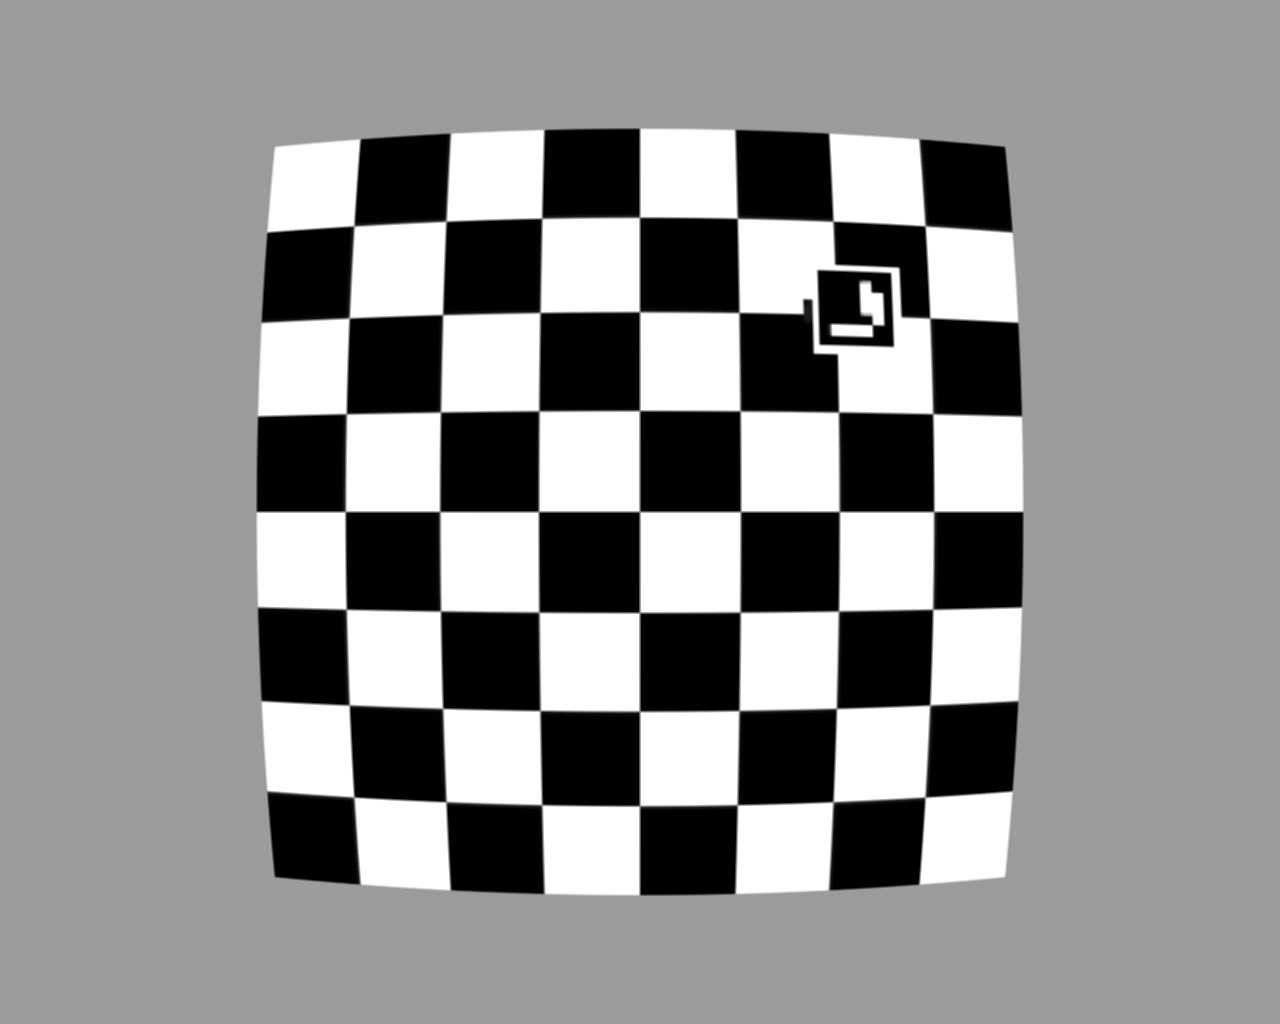
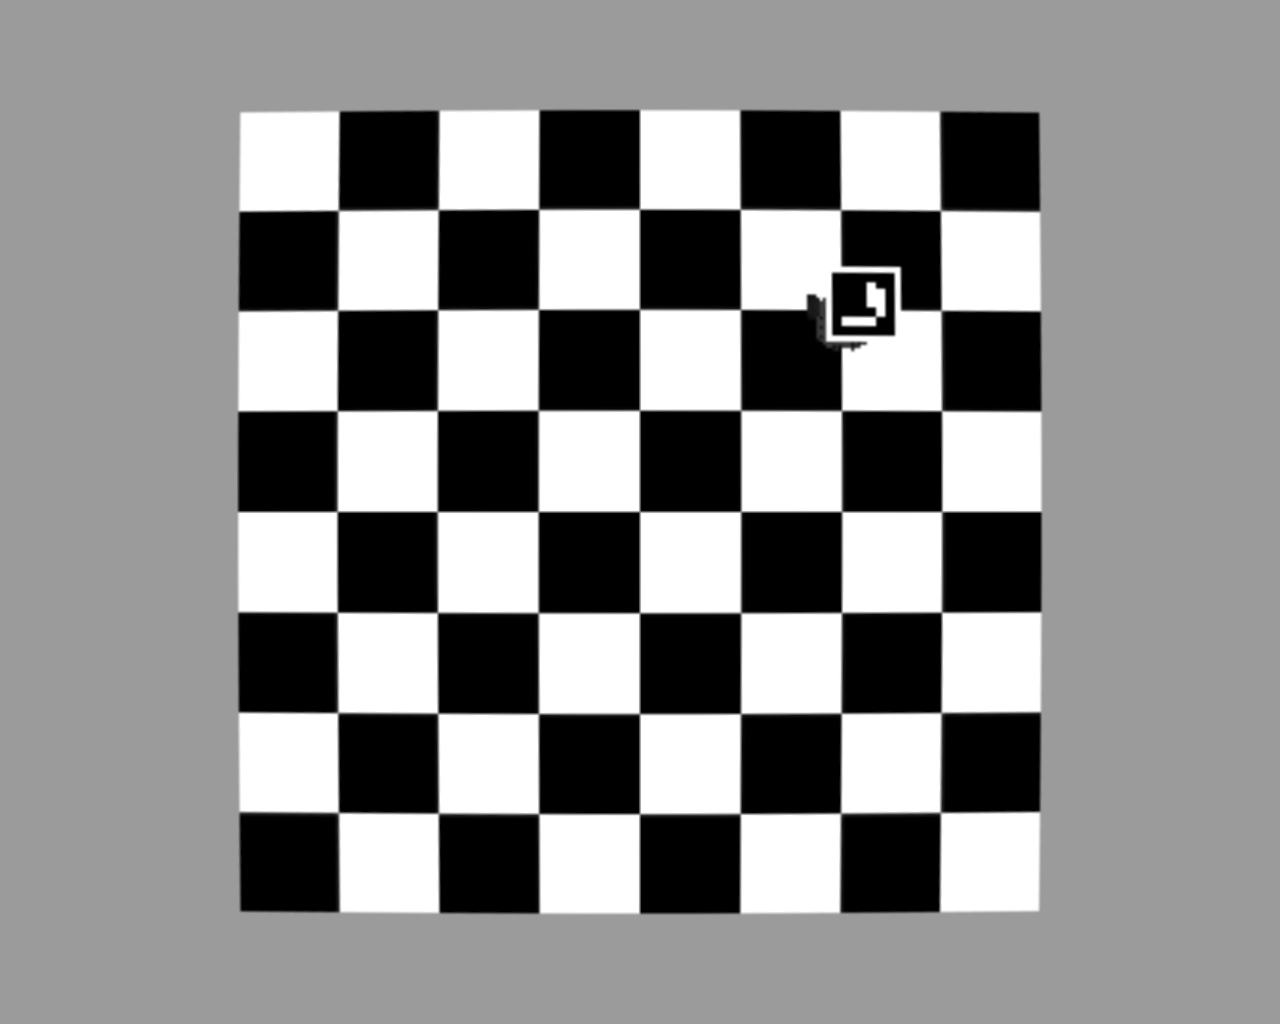
update

Changed region(s): [[0.1875, 0.0938, 0.8125, 0.9062]]

diff --git a/scripts/controller.py b/scripts/controller.py
@@ -8,13 +8,14 @@ import numpy as np
 from numpy.linalg import inv
 import time
 import tf
+import math
 
 class Controller:
-    def __init__(self, p_gain = 0.01, i_gain = 0, d_gain = 0, current_time = None, limitter = 0.3):
-        self.kp, self.ki, self.kd = p_gain, i_gain, d_gain
-        self.max_vel = limitter
-        self.current_time = current_time if current_time is not None else time.time()
-        self.last_time = self.current_time
+    def __init__(self): #, p_gain = 0.01, i_gain = 0, d_gain = 0, current_time = None, limitter = 0.3):
+        # self.kp, self.ki, self.kd = p_gain, i_gain, d_gain
+        # self.max_vel = limitter
+        # self.current_time = current_time if current_time is not None else time.time()
+        # self.last_time = self.current_time
 
         self.robot_pose_sub = message_filters.Subscriber('robot_pose_raw', Float64MultiArray)
         self.parking_pose_sub = message_filters.Subscriber('parking_pose', Float64MultiArray)
@@ -22,84 +23,97 @@ class Controller:
 
         self.ts = message_filters.ApproximateTimeSynchronizer([self.robot_pose_sub, self.parking_pose_sub], queue_size=1, slop=1, allow_headerless=True)
         self.ts.registerCallback(self.robot_matrix)
-
+        self.goto_point = PID(kp = np.array([[0.085, 0.0, 0.0], [0.0, 0.5, 0.0]]), 
+                              ki = np.array([[0.0, 0.0, 0.0], [0.0, 0.001, 0.0]]), 
+                              kd = np.array([[0.0, 0.0, 0.0], [0.0, 0.0, 0.0]]),
+                              limitter = np.array([[0.2],[3.3]]))
+        self.goto_parking = PID(kp = [[0.3, 0.8, -0.15], [0.0, 0.0, 0.0]])
+        # self.clear()
+        self.delta_hmat = np.zeros((4,4), dtype = np.float64)
+        self.robot_hmat = np.zeros((4,4), dtype = np.float64)
+        self.ds = 0.0
+        self.theta = 0.0
         rospy.on_shutdown(self.fnShutDown)
 
-        self.clear()
     
     def robot_matrix(self, robot_pose, parking_pose):
         self.robot_hmat = np.array(robot_pose.data).reshape(robot_pose.layout.dim[1].size, robot_pose.layout.dim[2].size)
         self.parking_hmat = np.array(parking_pose.data).reshape(parking_pose.layout.dim[1].size, parking_pose.layout.dim[2].size)
 
-    def clear(self):
+    # def clear(self):
 
-        """Clears PID computations and coefficients"""
-
-        self.SetPoint = 0.0
+    #     """Clears PID computations and coefficients"""
             
-        self.PTerm = 0.0
-        self.ITerm = 0.0
-        self.DTerm = 0.0
-        self.err = [0.0, 0.0, 0.0]
+    #     self.PTerm = 0.0
+    #     self.ITerm = 0.0
+    #     self.DTerm = 0.0
+    #     self.err = [0.0, 0.0, 0.0]
 
-        # Windup Guard
-        self.int_error = 0.0
-        self.windup_guard = 3.0
+    #     # Windup Guard
+    #     self.int_error = 0.0
+    #     self.windup_guard = 3.0
 
-        self.u = 0.0
+    #     self.u = 0.0
 
-        self.robot_hmat = np.zeros((4,4), dtype=np.float64)
-        self.parking_hmat = self.robot_hmat
-        self.delta_hmat = self.robot_hmat
-        self.theta = 0.0
+    #     self.robot_hmat = np.zeros((4,4), dtype=np.float64)
+    #     self.parking_hmat = self.robot_hmat
+    #     self.delta_hmat = self.robot_hmat
+    #     self.theta = 0.0
 
     def update_controller(self, event=None):
-        
-        self.current_time = time.time()
         try:
             self.delta_hmat = np.matmul(inv(self.robot_hmat), self.parking_hmat)
         except np.linalg.LinAlgError:
             pass
         # _,_,self.theta = tf.transformations.euler_from_matrix(self.delta_hmat, 'rxyz')
         
-        self.err[2] = self.theta
+        # print(self.delta_hmat)
         dx = self.delta_hmat[0][3]
         dy = self.delta_hmat[1][3]
+
         self.theta = np.arctan2(dy,dx)
-        print(dx,dy,self.theta)
+        # self.ds = np.hypot(dx,dy)
+        self.ds = math.hypot(dx,dy)
+        print(self.ds,self.theta)
 
-        delta_time = self.current_time - self.last_time
+        # self.current_time = time.time()
+        # delta_time = self.current_time - self.last_time
 
-        self.PTerm = self.kp * (self.err[2] - self.err[1])
-        self.ITerm = self.ki * self.err[2] * delta_time
-        self.DTerm = self.kd * (self.err[2] - 2*self.err[1] + self.err[0])
+        # self.PTerm = self.kp * (self.err[2] - self.err[1])
+        # self.ITerm = self.ki * self.err[2] * delta_time
+        # self.DTerm = self.kd * (self.err[2] - 2*self.err[1] + self.err[0])
 
-        if self.ITerm < -self.windup_guard:
-            self.ITerm = -self.windup_guard
-        elif self.ITerm > self.windup_guard:
-            self.ITerm = self.windup_guard
+        # if self.ITerm < -self.windup_guard:
+        #     self.ITerm = -self.windup_guard
+        # elif self.ITerm > self.windup_guard:
+        #     self.ITerm = self.windup_guard
 
-        self.last_time = self.current_time
-        self.err[0] = self.err[1]
-        self.err[1] = self.err[2]
-        print(self.err[2])
+        # self.last_time = self.current_time
+        # self.err[0] = self.err[1]
+        # self.err[1] = self.err[2]
+        # print(self.err[2])
 
-        self.u += self.PTerm + self.ITerm + self.DTerm
+        # self.u += self.PTerm + self.ITerm + self.DTerm
 
-        u1 = 0.085* np.hypot(dx,dy)
-        if self.theta > 0.3 or self.theta < -0.3:
-            u1 = 0
+        # u1 = 0.085* np.hypot(dx,dy)
+        # if self.theta > 0.3 or self.theta < -0.3:
+        #     u1 = 0
+        # self.u = np.clip(self.u, a_min = -self.max_vel, a_max = self.max_vel)
 
+        self.goto_point.update(errors = np.array([[self.ds], [self.theta], [0.0]]))
+        if ((self.theta > 0.1) or (self.theta < -0.1)):
+            self.goto_point.output[0] = 0
+            print('a')
 
-        self.u = np.clip(self.u, a_min = -self.max_vel, a_max = self.max_vel)
+        # print('b')
         twist = Twist()
-        twist.linear.x = u1
+        twist.linear.x = self.goto_point.output[0]
         twist.linear.y = 0
         twist.linear.z = 0
         twist.angular.x = 0
         twist.angular.y = 0
-        twist.angular.z = self.u
-
+        twist.angular.z = self.goto_point.output[1]
+        print(twist.linear.x,twist.angular.z)
         self.cmd_vel_pub.publish(twist)
 
     def fnShutDown(self):
@@ -112,13 +126,61 @@ class Controller:
         twist.angular.x = 0
         twist.angular.y = 0
         twist.angular.z = 0
-        self.cmd_vel_pub.publish(twist) 
+        self.cmd_vel_pub.publish(twist)
+
+class PID:
+    def __init__(self, kp = np.zeros((2,3),dtype=np.float64), ki = np.zeros((2,3),np.float64), kd = np.zeros((2,3),dtype=np.float64), current_time = time.time(), limitter = np.array([[0.3],[0.3]])):
+        self.kp, self.ki, self.kd= kp, ki, kd
+        self.current_time = current_time
+        self.limitter = limitter
+        self.windup_guard = np.array([[20.0],[20.0]])
+        
+        self.clear()
+
+    def update(self, errors, current_time = time.time()):
+        self.current_errors = errors
+        self.current_time = current_time    
+        self.delta_time = self.current_time - self.previous_time
+        # print(self.current_errors.shape)
+        self.PTerm = np.matmul(self.kp, (self.current_errors - self.previous_errors))
+        self.ITerm = np.matmul(self.ki, (self.current_errors * self.delta_time))
+        self.DTerm = np.matmul(self.kd, (self.current_errors - 2*self.previous_errors + self.last_errors))
+        # print(self.DTerm)
+        if np.any(self.ITerm < -self.windup_guard):
+            self.ITerm = -self.windup_guard
+        elif np.any(self.ITerm > self.windup_guard):
+            self.ITerm = self.windup_guard
+        
+        self.previous_time = self.current_time
+        self.last_errors = self.previous_errors
+        self.previous_errors = self.current_errors
+
+        self.output += self.PTerm + self.ITerm + self.DTerm
+        self.output[0] = np.clip(self.output[0], a_min = -self.limitter[0], a_max = self.limitter[0])
+        self.output[1] = np.clip(self.output[1], a_min = -self.limitter[1], a_max = self.limitter[1])
+        # print(self.output)
+    def clear(self):
+        self.PTerm = np.zeros((2,1),dtype=np.float64)
+        self.ITerm = np.zeros((2,1),dtype=np.float64)
+        self.DTerm = np.zeros((2,1),dtype=np.float64)
+        self.current_errors = np.zeros((3,1),dtype=np.float64)
+        self.previous_errors = np.zeros((3,1),dtype=np.float64)
+        self.last_errors = np.zeros((3,1),dtype=np.float64)
+        self.previous_time = 0.0
+        self.delta_time = 0.0
+        self.output = np.zeros((2,1),dtype=np.float64)
+
+def near_parking(_ds):
+    if _ds < 0.01 or _ds > -0.01:
+        return True
+    else:
+        return False
     
 def main():
     rospy.init_node('controller', anonymous=True)
     rospy.loginfo("Initializing controller")
-    goto_point = Controller(0.5, 0.01, limitter = 2.84)
-    rospy.Timer(rospy.Duration(1.0/20.0), goto_point.update_controller)
+    goto_point = Controller()
+    rospy.Timer(rospy.Duration(1.0/10.0), goto_point.update_controller)
     rospy.spin()
 
 if __name__ == '__main__':

diff --git a/scripts/pose_estimation.py b/scripts/pose_estimation.py
@@ -18,41 +18,51 @@ class pose_estimation:
         self.image_pub = rospy.Publisher('/robot_detection', Image, queue_size=1)
         self.robot_pose_pub = rospy.Publisher('/robot_pose_raw', Float64MultiArray, queue_size=1)
         self.parking_pose_pub = rospy.Publisher('/parking_pose', Float64MultiArray, queue_size=1)
-        self.image_sub = rospy.Subscriber('/camera/image_raw', Image, self.callback)
+        self.image_sub = rospy.Subscriber('/camera/image_rect_color', Image, self.callback)
         self.bridge = CvBridge()
         self.robot_pose = Float64MultiArray()
         self.parking_pose = Float64MultiArray()
 
-        path = os.path.expanduser("~")+"/catkin_ws/src/turtlebot3_visual_servoing/camera_info/camera_real.yaml"
+        path = os.path.expanduser("~")+"/catkin_ws/src/turtlebot3_visual_servoing/camera_info/camera_sim.yaml"
         with open(path, "r") as file_handle:
             calib_data = yaml.load(file_handle)
         self.K = np.array(calib_data["camera_matrix"]["data"]).reshape(3,3)
         self.D = np.array(calib_data["distortion_coefficients"]["data"])
-        self.parking_hmat = []
-        goal_img = cv2.imread(os.path.expanduser("~")+'/catkin_ws/src/turtlebot3_visual_servoing/parking/parking2.png')
+
+        self.parking_hmat = np.zeros((4,4), dtype=np.float64)
+        self.robot_hmat = np.zeros((4,4), dtype=np.float64)
+        goal_img = cv2.imread(os.path.expanduser("~")+'/catkin_ws/src/turtlebot3_visual_servoing/parking/desired.png')
         parking_img, self.parking_hmat = self.compute_pose_estimation(goal_img, self.K, self.D)
-        
+        # print('goal \n',self.parking_hmat)
     def callback(self, data):
         try:
             cv_image = self.bridge.imgmsg_to_cv2(data, "bgr8")
-            frame_pose, robot_hmat = self.compute_pose_estimation(cv_image, self.K, self.D)
+            frame_pose, robot_current_hmat = self.compute_pose_estimation(cv_image, self.K, self.D)
             self.image_pub.publish(self.bridge.cv2_to_imgmsg(frame_pose, "bgr8"))
 
-            self.robot_pose.data = robot_hmat.flatten()
+            # try:
+            #     self.robot_hmat += np.matmul(inv(self.robot_hmat), robot_current_hmat)
+            # except np.linalg.LinAlgError:
+            #     self.robot_hmat = robot_current_hmat
+            #     pass
+            self.robot_hmat = (self.robot_hmat + robot_current_hmat)/2
+            # print(self.robot_hmat)
+            # print(np.matmul(inv(self.robot_hmat), self.parking_hmat))
+            self.robot_pose.data = self.robot_hmat.flatten()
             
             matrix_dim = MultiArrayDimension()
             matrix_dim.label = "robot matrix"
-            matrix_dim.size = robot_hmat.shape[0] * robot_hmat.shape[1]
+            matrix_dim.size = self.robot_hmat.shape[0] * self.robot_hmat.shape[1]
             matrix_dim.stride = matrix_dim.size
             
             row_dim = MultiArrayDimension()
             row_dim.label = "row"
-            row_dim.size = robot_hmat.shape[0]
+            row_dim.size = self.robot_hmat.shape[0]
             row_dim.stride = row_dim.size
             
             col_dim = MultiArrayDimension()
             col_dim.label = "column"
-            col_dim.size = robot_hmat.shape[1]
+            col_dim.size = self.robot_hmat.shape[1]
             col_dim.stride = col_dim.size
 
             self.robot_pose.layout.dim = [matrix_dim, row_dim, col_dim]
@@ -91,7 +101,7 @@ class pose_estimation:
         if len(corners) > 0:
             for i in range(0, len(ids)):
                 # Estimate pose of each marker and return the values rvec and tvec---(different from those of camera coefficients)
-                ret = aruco.estimatePoseSingleMarkers(corners[i], 0.15, matrix_coefficients, distortion_coefficients)
+                ret = aruco.estimatePoseSingleMarkers(corners[i], 0.14, matrix_coefficients, distortion_coefficients)
                 self.rvec, self.tvec = ret[0][0,0,:], ret[1][0,0,:]
                 # Draw a square around the markers
                 aruco.drawDetectedMarkers(frame, corners) 

diff --git a/scripts/test_map.py b/scripts/test_map.py
@@ -33,8 +33,55 @@ for c in contours:
     box = np.int0(box)
     # draw rotated rectangle on copy of img
     cv2.drawContours(binary,[box],0,(0,0,0),cv2.FILLED)
+# x = np.arange(0, height/10, width/10)
+# y = np.arange(0, height/10, width/10)
+# X, Y = np.meshgrid(x, y)
+a = cv2.resize(binary,(width/20, height/20),interpolation=cv2.INTER_NEAREST)
+# a = cv2.resize(a,(width, height),interpolation=cv2.INTER_NEAREST)
+b = []
+d = []
+e = []
+point=[1,1]
+goal = [15,15]
+
+point_float = [float(x) for x in point]
+goal_float = [float(x) for x in goal]
+# print(point_float)
+dx = point_float[0]-goal_float[0]
+dy = point_float[1]-goal_float[1]
+while not np.hypot(dx,dy)<2.0 or np.hypot(dx,dy)>-2.0:
+    # print('aaa')
+    for i in range(3):
+        # print(i)
+        for j in range(3):
+            if a[i-1+point[0]][j-1+point[1]] == True:
+                
+                c = np.hypot((i-1+point[0])-goal[0],(j-1+point[1])-goal[1])
+                # print(c)
+                b.append(c.tolist())
+                # print(b)
+                e = [(i-1+point[0]),(i-1+point[1])]
+                # print(e)
+                d.append(e)
+    print(b)
+    print(d)       
+                
+    # print(np.min(b))
+    for k in range(len(b)):
+        if np.min(b) == b[k]:
+            point=d[k]
+            point_float = [float(x) for x in point]
+            print(point)
+            dx = point_float[0]-goal_float[0]
+            dy = point_float[1]-goal_float[1]
+            break
+    b=[]
+    d=[]
+    
+    
 
 #cv2.imshow("result1", result1)
 cv2.imshow("result", binary)
+cv2.imshow("resize", a)
 cv2.waitKey(0)
 cv2.destroyAllWindows()
